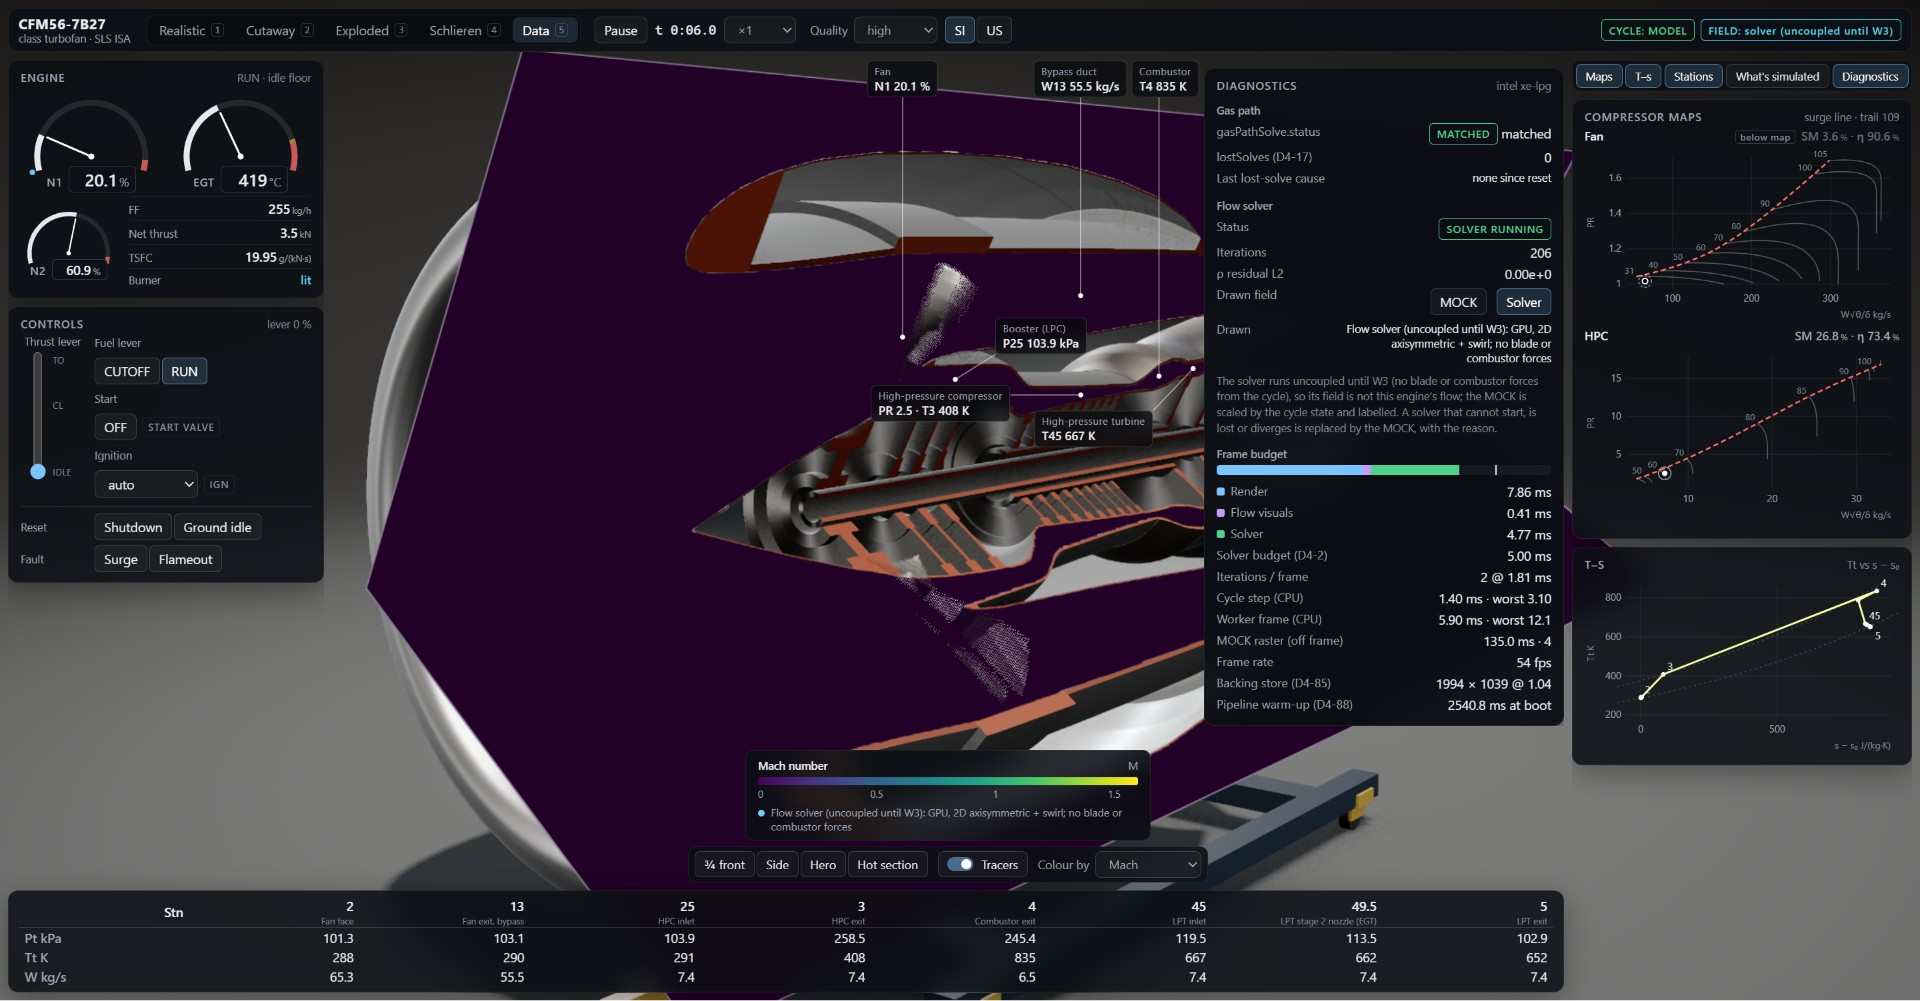
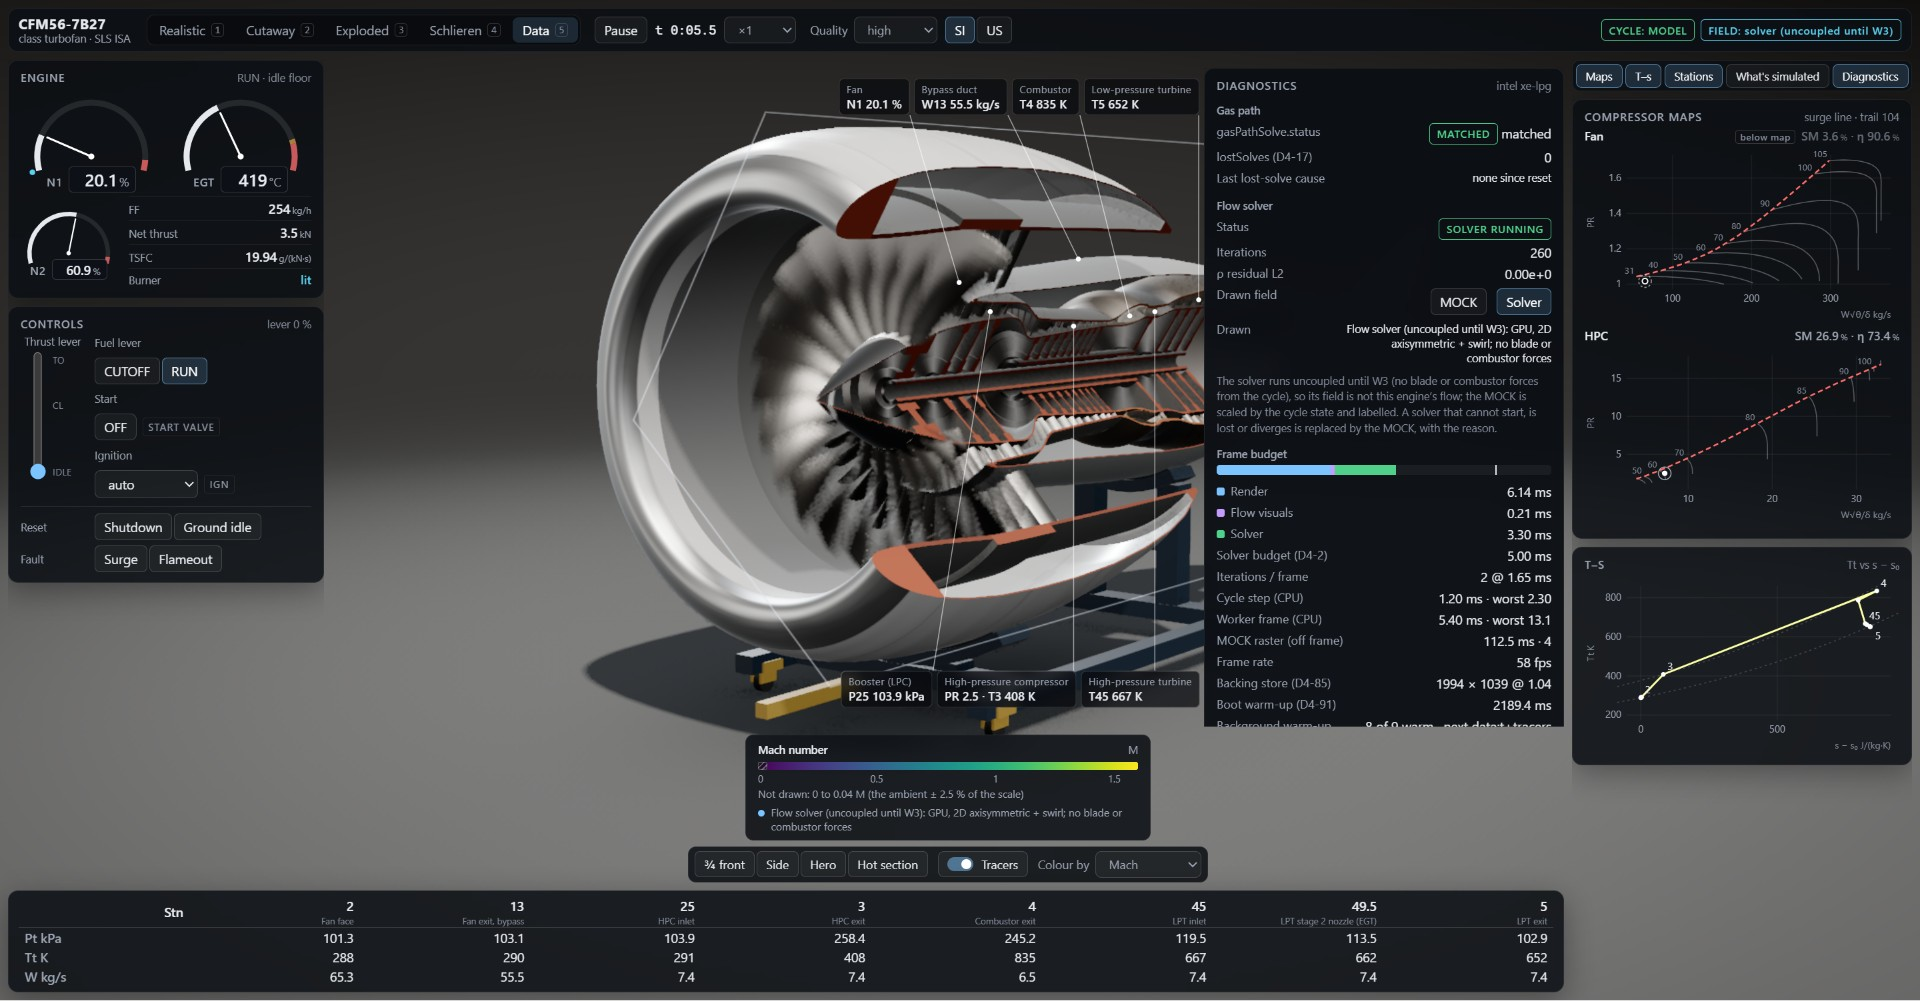
W2-app-ui: the re-shoot of docs/look-dev/ui (both sizes, every mode, the drawer, the solver; from the gate run at 70812f9, the cut views framed for their label rows, the Schlieren signature on the canvas with its controls) and HANDOFF round 6: D4-97 items 1-4 (W2A-I7..I10), N21, N22, N24-N28; gates 

diff --git a/docs/handoffs/w2-app-ui.md b/docs/handoffs/w2-app-ui.md
@@ -1,4 +1,107 @@
-w2/app-ui: round 5 (D4-95 items 1-4, the re-shoot, N14, N20). Main @10b78ad merged (602f9bb, docs only). Code and shots at 3612355; gates at 3612355 (see GATES); this handoff on top.
+w2/app-ui: round 6 (D4-97 items 1-4, W2A-I7..I10, N21, N22, N24-N28, the re-shoot). Main @7a35c60 merged (a fast-forward). Code and shots at 70812f9; gates at 70812f9 (see GATES); this handoff on top.
+
+# Round 6 (2026-10-31): critic pass 17's findings, as D4-97 decided
+
+DONE (TDD: each failing test committed first, "(TDD)" in its message)
+- **W2A-I9, a warm frame zeroed the next real frame's camera motion** (748e7b9 TDD; 379f1c1). **FLAGGED RENDER EDIT** (`post.ts`).
+  - The view-projection roll moved out of `post.ts`, unchanged, to the pure `src/render/viewProjRoll.ts`; the fix saves and restores all three matrices (previous, current and its inverse), not only the previous.
+  - `tests/unit/render/viewProjRoll.test.ts`: an orbiting camera with a warm frame before each real frame (a cold switch preparing while the viewer drags). Each real frame's matrices equal those of the same frames without warm frames, its previous is the last real frame's, and a scene point's camera motion is the orbit's, not zero. It failed on the old restore (2 of 3).
+- **W2A-I7 / D4-97 item 1, a cold switch has a bound** (1795061 TDD; 9a4448e).
+  - `src/shell/warmUp.ts`: the asked view takes its slots under the CPU rule, and once it has waited `COLD_SWITCH_WAIT_FRAMES` = 60 frames, whatever the last frame's CPU (one every SLOT_EVERY). Its give-up counts the frames waited (`MAX_PREPARE_FRAMES` = 800, about 13 s, the slots' old give-up). The background keeps the CPU rule (D4-95 item 3).
+  - **U4 pre-registered** in PHYSICS.md 3.5 and `src/hud/uiLevels.ts` (`coldSwitchMaxMs` 2000): an unwarmed switch shown within 2 s at any steady frame CPU, indicative, official only quiet.
+  - Unit tests from the critic's probe: at a steady 8.4, 11.2 and 16 ms frame, the first slot at frame 60, then one every 2 frames; 8.0 ms from frame 0, as before; the loaded pattern; a configuration needing k warm frames shown at exactly 60 + 2(k - 1) frames at 8.4, 11.2 and 30 ms; a never-finishing view given up at 800 frames waited; no background slot at a steady 8.4 ms; the wait restarting for the next cold switch.
+  - Chrome (`firstSwitch.test.tsx`): the cold switch into Data now also runs at a steady 8.4 and 11.2 ms frame CPU. The worker pads each frame to it through a test-only `debug` protocol message (never sent by the app, not an input for the quiet rule). It records U4 every run, fails a freeze or a give-up every run, and gates U4 in a quiet run.
+- **W2A-I8 / D4-97 item 2, the cut views framed for their label rows** (55786c7 TDD; 19acf3f).
+  - `src/shell/orbit.ts` `cutViewOrbit`: entering Cutaway or Data dollies the camera out and pans it until the engine's screen box lies inside the free area above the dock, less a 52 px label row above and below. It re-projects after each pass, three passes, and stops at the minimum engine scale, 0.6 of the size at the orbit before (Schlieren's). Leaving puts the orbit back. The overlay posts `viewArea.rows`, the centre column above the dock; a change re-frames from the saved orbit (the dock's legend appears with the mode).
+  - **U5 pre-registered** beside U1-U4 (`cutViewMinScale` 0.6, `calloutRowPx` 52, the stated priority).
+  - `layoutAxial` now offers only the row places. A label with no room in its row is hidden by D4-97's priority, never placed on the section: `anchors.ts` PRIORITY is now fan, combustor, HPT, LPT, exhaust, then HPC, booster, bypass duct.
+  - Unit: the framing checked by projecting the engine rings after the orbit, at both sizes. Chrome: the layout bar asserts the axial rows hold in Cutaway and Data at both sizes (every shown label clear of the engine box above or below it, each row in axial order).
+  - In the targeted run (t1) and the gate run: 8 of 8 labels in their rows in both cut views at 1366 and 1920.
+- **W2A-I10 / D4-97 item 3, the Schlieren signature on the canvas alone** (915d710 TDD; 4539b72, 70338fe). W2A-I6 is closed only if the critic agrees.
+  - `app.test.tsx` computes the signature from a second screenshot with the overlay hidden.
+  - Each bar has its own failing control, asserted by name (`failedBars`):
+    - S1, the knife edge off (a new `knifeEdge` uniform in `post.ts`, set through EngineView's `noKnifeEdge` and the `debug` message, in the same run), fails the jet bar;
+    - Cutaway and Data fail the grey-share bar;
+    - Realistic and Exploded fail the silhouette bar.
+  - The grey-share bar is tightened from 0.3 to 0.7, midway between Schlieren on the canvas (0.84-0.90) and the controls (≤ 0.55 once the cut views are framed for their rows). The jet (0.08) and silhouette (0.5) bars are unchanged.
+  - The unit controls are drawn at the studio's grey (0.47). One more case shows a label in the jet box passing a bandless jet, which is why the signature is taken on the canvas.
+- **D4-97 item 4** (33c74c9): **U6** (Cutaway's own warm frames, 47 at ≤ 41 ms, about 2 s, once) and **U7** (all nine configurations warm, s after ready) are recorded rows with no bar in PHYSICS.md 3.5 and the mirror. warmStall writes `u6Cutaway` (with `warmFramesOver16_7Ms`); firstSwitch's while-warming case writes `allWarmMs`.
+- **Nits**:
+  - N21 (32299c6 TDD; 70338fe): the search tries every crossing place, fewest crossings first. The critic's probe, dense (5 anchors in 360 x 280): 0 of 600 short of the exhaustive best (was 17 of 1500). The BIG case was not rerun to the end (timeout).
+  - N22 (78be8d7 TDD; 70812f9): Diagnostics shows "Boot warm-up (D4-91)" and a "Background warm-up" row (n of 9 warm, the next, paused for input, given up).
+  - N24 (19acf3f): an orbit in a framed view (Schlieren, the cut views) cancels the restore.
+  - N25 (55786c7, 19acf3f): `fitViewOffset` is deleted; `framedOrbit` is tested by projecting the engine after the orbit.
+  - N26 (d40758d): the guard pins every field TRAANode's `updateBefore` writes (the six camera uniforms, the previous depth and the one-shot `_needsPostProcessingSync`, which setup sets and the first frame clears: not per-frame state). Critic mutant G4 would now fail it (not re-run: it edits `node_modules/three`).
+  - N27 (379f1c1): `post.ts` cites GPU_FACTS M57.
+  - N28 (e41d6f0): the drawn layout bar checks that no callout anchor is under a panel and no leader runs through one.
+  - **Skipped: N23** (the boot's `warmUp` reports no done flag).
+
+MEASURED (1366 x 768, `reports/ui/first-switch-*.json`; AC, shared machine, not quiet: indicative)
+| cold switch into Data (U4 ≤ 2 s), shown / warm frames | before (critic 17's probe) | t1 (19acf3f) | gate run (70812f9) |
+|---|---|---|---|
+| light frame CPU | 3.07 s (critic's run) | 1.95 s, 43 warm frames | 2.53 s, 46 |
+| steady 8.4 ms | never (0 slots in 10 min) | 3.89 s, 44 warm frames | 3.10 s, 45 |
+| steady 11.2 ms | never | 4.29 s, 47 warm frames | 3.19 s, 45 |
+- No switch was given up; the longest snapshot gap while preparing stayed under FREEZE_MS.
+- U2: Schlieren 57 / 85 ms, Cutaway 67 / 53 ms, a switch while the queue warms 65 / 57 ms (t1 / gate run). U3 in the gate run: boot 2.8-3.4 s.
+- U6 (gate run, warmStall): Cutaway's own warm, 41 warm frames over 1.37 s, at most 22 ms of warm-frame CPU, 9 frames over 16.7 ms, the longest frame gap 17 ms, 42 pipelines.
+- U7: all nine warm 6.2 s after ready (both runs).
+- The Schlieren signature on the canvas (t1):
+  - Schlieren passes: grey share 0.90 / 0.84 (1366 / 1920), silhouette 0.25, jet 0.16 / 0.15.
+  - S1 fails the jet bar: 0.0009 / 0.0056.
+  - Cutaway fails the grey bar: 0.55 / 0.50; Data 0.55 / 0.50.
+  - Realistic fails the silhouette bar: 1.18; Exploded: 0.67.
+
+NEEDS AN ORCHESTRATOR DECISION
+1. **U4 (≤ 2 s) is not met at a steady frame CPU over the slot bar.** The cold switch is no longer stuck, but D4-97's mechanism shows it in about 3.9-4.3 s at 8.4 and 11.2 ms.
+   - The time is about 1 s of waiting (60 frames), then the view's own 44-47 warm frames, one every 2 frames, each frame longer by its node build (up to 41 ms).
+   - At a light CPU it was 1.95 s in t1 and 2.53 s in the gate run. A quiet run gates U4, so it would fail at 8.4 and 11.2 ms, and maybe at a light CPU too.
+   - Options, none adopted here:
+     - (a) after the 60-frame bound, the asked view warms every frame instead of every 2nd: about 1 s off, maybe still over 2 s at 11.2 ms;
+     - (b) a shorter bound, or none for the asked view (D4-97 declined the latter);
+     - (c) U4 restated as "60 frames plus the view's own warm frames".
+   - U4 is pre-registered as decided and not loosened.
+2. **The W2F-N5 held-frame case threw in the cycle in the targeted run (t1)**: `cycle step failed: Error: enthalpy 4475806.6 is outside the range of [200, 3500] K`, on the part-power fit's slam, so the sim stopped and the test's "no problems" failed.
+   - The cycle code is unchanged since critic 17's passing run (main 664203f had the same `src/cycle`), and this round touches no cycle code. So it is a timing-dependent path on the part-power fit (W2H-I1 / W2H-I4's ground), surfaced correctly as SIM STOPPED.
+   - The gate run's same case passed (990 lost solves, no problem), so it is intermittent. It needs the cycle owner's look: the scenario is the browser's real-time lever ramp, and t1's log has the message.
+3. **The grey-share bar's move to 0.7** was set after seeing t1's controls (0.50-0.55, the cut views framed). It tightens the test's own bar (Schlieren passes at 0.84-0.90); the critic may want it stated differently.
+4. **New test-only protocol message `debug`** (`frameCpuMs`, `knifeEdge`) in `src/shell/protocol.ts` and the worker (not `src/contracts`). It is not an input for the quiet rule.
+5. **Display rules changed** (UI, not physics): the callout priority order (D4-97's), and in the cut views a label with no room in its row is hidden rather than placed on the section.
+
+NOT DONE
+- N23 (the boot `warmUp` without a done flag).
+- Visual notes 5 and 7; flowviz's crop outline (W2V-N25) in the app's shots; labels in Exploded (critic's suggestion 4); "Preparing the pressure field" for a quantity change (small note).
+
+SHOTS (`docs/look-dev/ui/`, from the gate run at 70812f9, `VITE_UI_LOOKDEV=1`; the signatures and the callouts shown are in `*-shots.txt`)
+I looked at 11 of the 14: both sizes of Cutaway, Data, Schlieren and the drawer, plus 1366's Realistic and Exploded.
+- 1920 Realistic, 1920 Exploded and `1920-data-solver.jpg` I did not open, to stay under the usage brake. Their code paths are unchanged this round, and their numeric checks passed (the layout bar, the signature controls).
+- `*-2-cutaway.jpg`, `*-5-data.jpg`: the engine is dollied out, with Fan, Bypass duct, Combustor and Low-pressure turbine in the row above, and Booster, HPC, HPT and Core exhaust in the row below. Both rows keep axial order, with straight leaders to dots on the parts, nothing on the section, and nothing clipped or overlapping, at both sizes. That meets W2A-I8.
+- `*-6-drawer.jpg` (Data with Diagnostics open):
+  - at 1920, six labels (those left of the drawer), the Background warm-up row reading "9 of 9 warm";
+  - at 1366, one label (Fan: the rest are under the drawer), placed in the lower row with a long leader. It is clear of everything.
+- `*-4-schlieren.jpg`: the knife-edge grey, the dim silhouette, the banded jet. The framing is the same as round 5's: at 1920 there is still no margin at the left column (critic visual note 2, open).
+- `1366-1-realistic.jpg`: Fan on the fan face, Core exhaust on the cowl, as before.
+- `1366-3-exploded.jpg`: the parts run under the right column, as in round 5 (Exploded is not framed; a suggestion for later).
+- Short of the bar, still open: flowviz's crop outline (W2V-N25) crosses the cut views like a stray leader; the 1366 drawer's single long leader; Schlieren's margin at 1920.
+
+GOTCHAS
+- `viewArea.rows` is the centre column above the dock. The dock's legend appears with the cut modes, so the worker re-frames when the area changes (a jump of a few px, a snapshot after the switch).
+- The `debug` message is the only way the browser suite reaches the knife edge and the frame CPU. A worker frame padded to N ms still runs at 60 fps up to about 16 ms.
+- The critic's exact-search probe needs `--import ./tools/mesh/ts-resolve.mjs` and a `.ts` copy (`reports/scratch/app-ui/r6/probe/`). Its BIG case runs for minutes.
+- Detached runs: `reports/scratch/app-ui/r6/run.ps1` (one command: waits for free RAM and no other browser run, records the battery) and `gates.ps1`. Dev port 5194 unused; no MCP page opened.
+
+GATES @70812f9 (detached, `reports/scratch/app-ui/r6/gates.ps1`, logs `gate-*.log` there; AC, battery status 2, 5.3 GB free before the browser step, no other vitest browser run)
+- npm run typecheck: clean, 12 s. npm run lint: clean, 59 s.
+- coverage (`--coverage.reportsDirectory=reports/scratch/app-ui/r6/coverage`): 136 files, 2339 passed + 11 expected fail, exit 0 (thresholds met). Lines 99.52 %, statements 98.53 %, branches 87.87 %, functions 99.55 %; 763 s.
+- npm run test:mesh: 2 files, 29 passed.
+- npm run test:gpu: 12 files, 70 passed, 44 s.
+- npm run test:browser (`VITE_UI_LOOKDEV=1`, the re-shoot): 14 files, 46 passed, 0 failed, 428 s.
+- Earlier targeted run t1 (app + firstSwitch at 19acf3f): 9 of 10. W2F-N5 failed on the cycle's throw (decision 2), and everything else passed.
+
+NEXT
+1. Decisions 1-5 above.
+2. Critic: W2A-I6/I10's controls, and U4/U5 as measured.
+3. N23. Schlieren's margin at 1920, Exploded framing and labels, "Preparing the pressure field" for a quantity change, visual notes 5 and 7.
 
 # Round 5 (2026-10-31)
 
